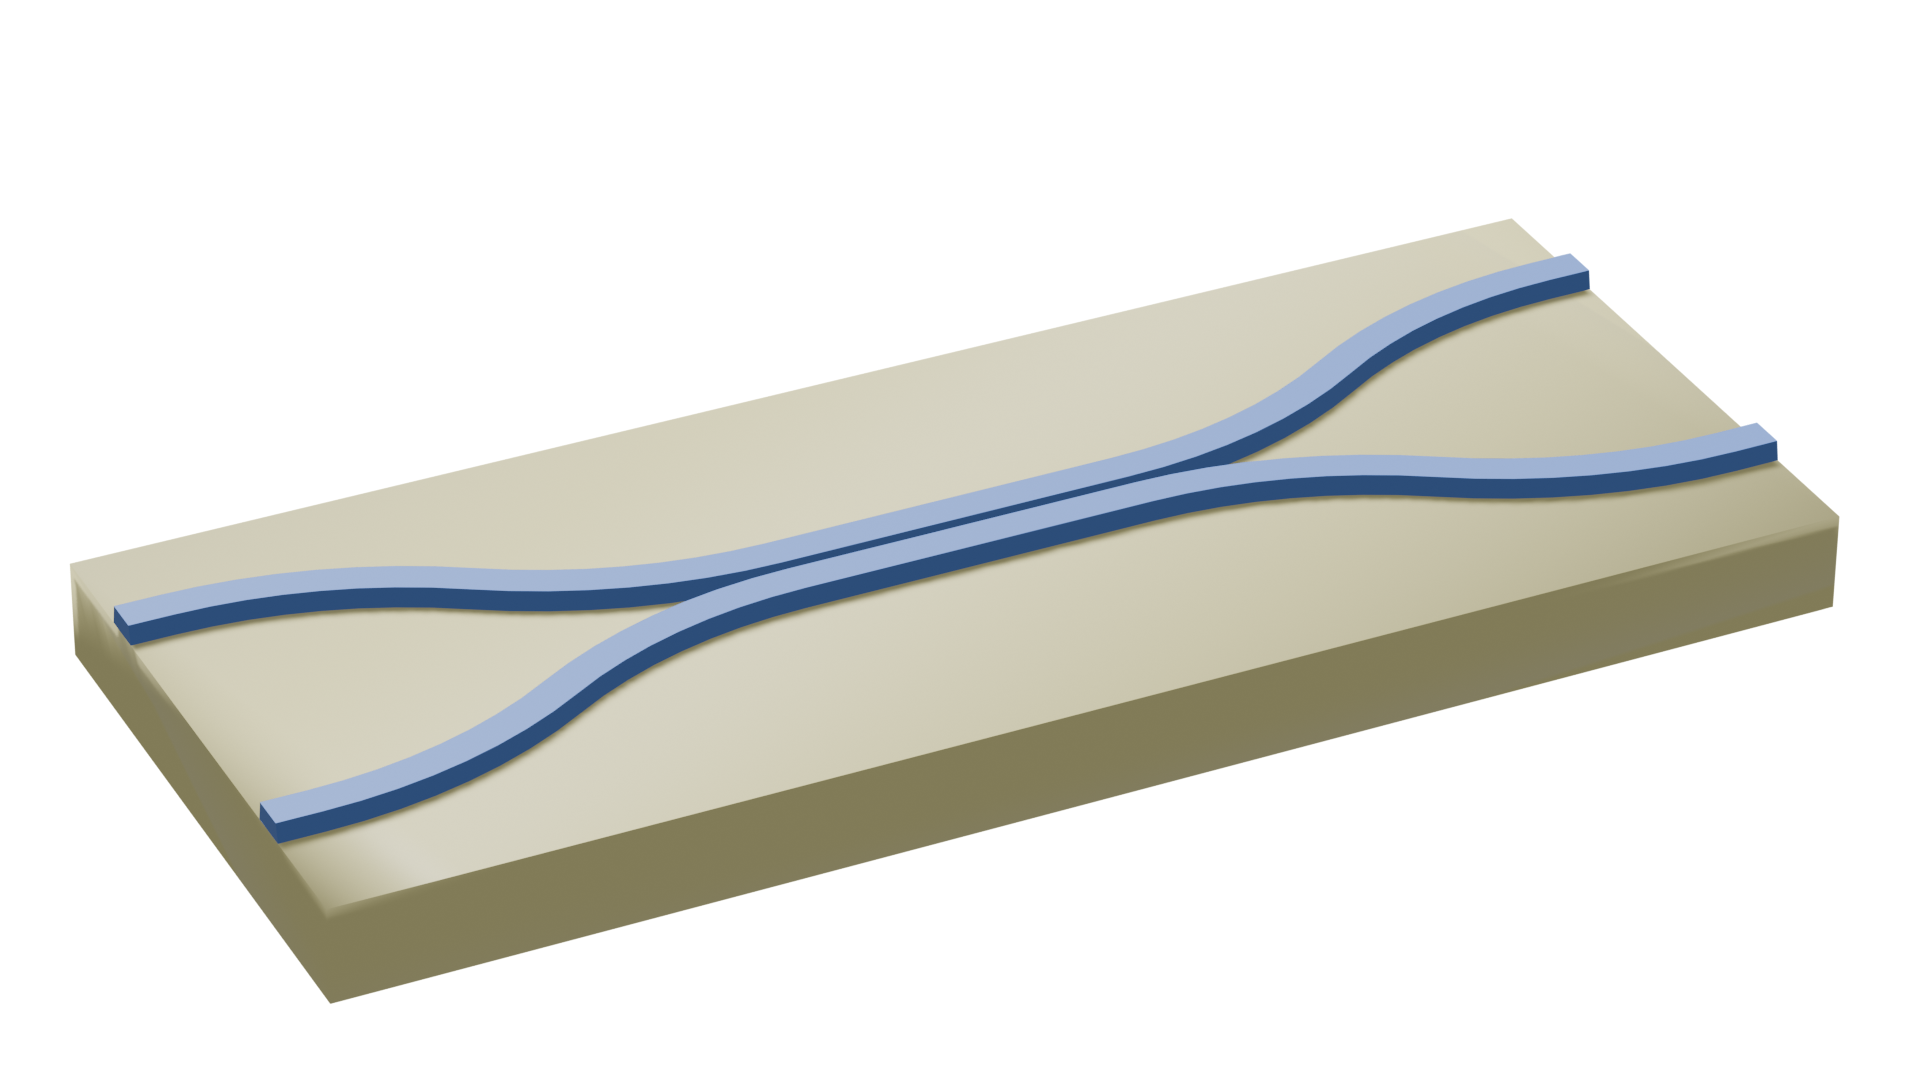
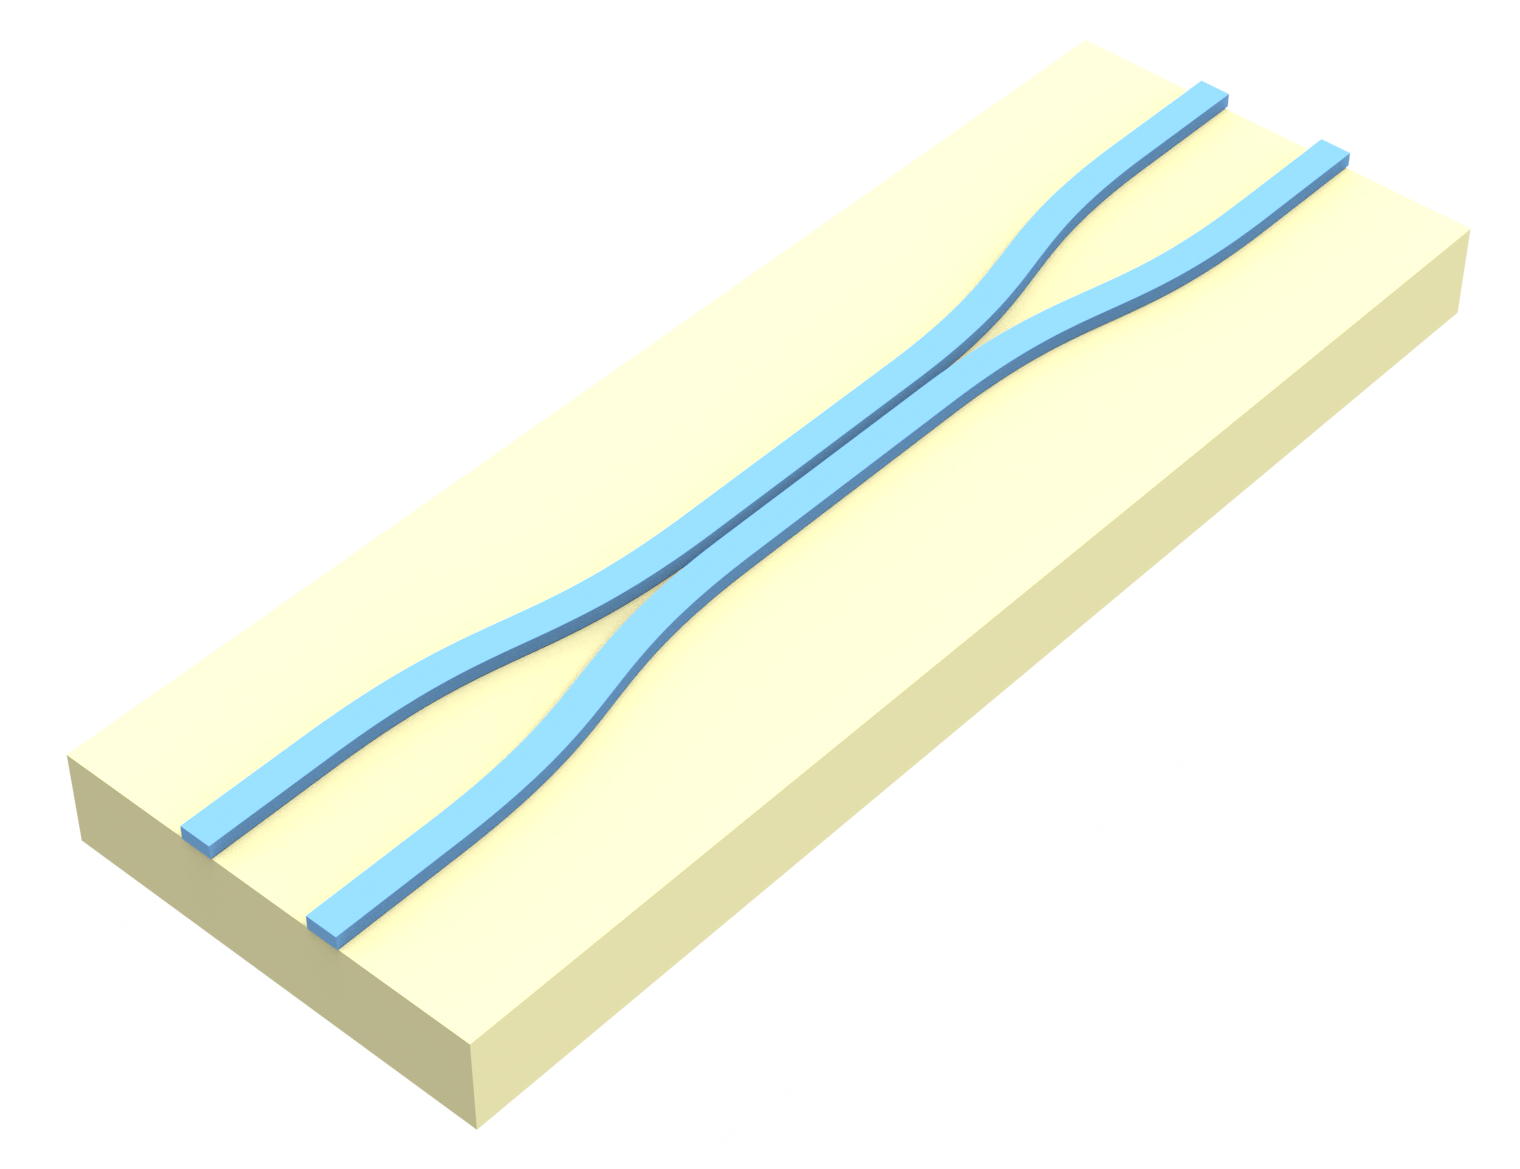
Minor edits to recent notebooks

diff --git a/docs/case_studies/pic_active.rst b/docs/case_studies/pic_active.rst
@@ -16,3 +16,4 @@ At the moment, Tidy3D’s heat solver can be used with the FDTD solver to model 
     ../../TransientThermoOpticShifter
     ../../CPOHeat
     ../../PhotoThermalWaveguides
+    ../../PINMachZehnder
